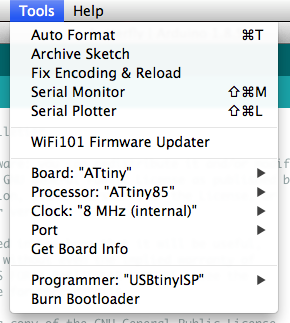
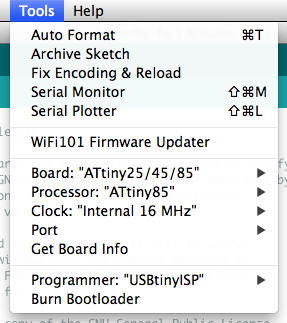
Use 16 MHz clock instead of 8 MHz clock.
This should result in better dithering.  Running at 16 MHz requires
the latest version of the ATtiny support from the GitHub repository,
rather than the old copy that SparkFun has.

diff --git a/README.md b/README.md
@@ -8,10 +8,10 @@ the Arduino 1.6.x IDE also seems to work fine with Arduino IDE 1.8.5.
 I recommend using the [Tiny AVR Programmer][5] from SparkFun, but it
 theory, any AVR programmer should work, if it's hooked up properly.
 
-In the "Tools" menu, "Board" should be set to "ATtiny", "Processor"
-should be set to "ATtiny85", and "Clock" should be set to "8 MHz
-(internal)".  If using the Tiny AVR Programmer, then "Programmer"
-should be set to "USBtinyISP".
+In the "Tools" menu, "Board" should be set to "ATtiny25/45/85",
+"Processor" should be set to "ATtiny85", and "Clock" should be set to
+"Internal 16 MHz".  If using the Tiny AVR Programmer, then
+"Programmer" should be set to "USBtinyISP".
 
 ![Tools menu](tools-menu.png)
 
@@ -19,7 +19,7 @@ After setting the above settings, and before uploading the sketch, be
 sure to run "Burn Bootloader" from the "Tools" menu.  In the case of
 the ATtiny, this does not actually burn a bootloader.  Instead, it
 just burns the fuses.  This is necessary to get the ATtiny85 to run at
-8 MHz.  This only needs to be done once per chip; it does not need to
+16 MHz.  This only needs to be done once per chip; it does not need to
 be done every time you upload a sketch.
 
 [1]: https://github.com/ppelleti/butterfly-hw
